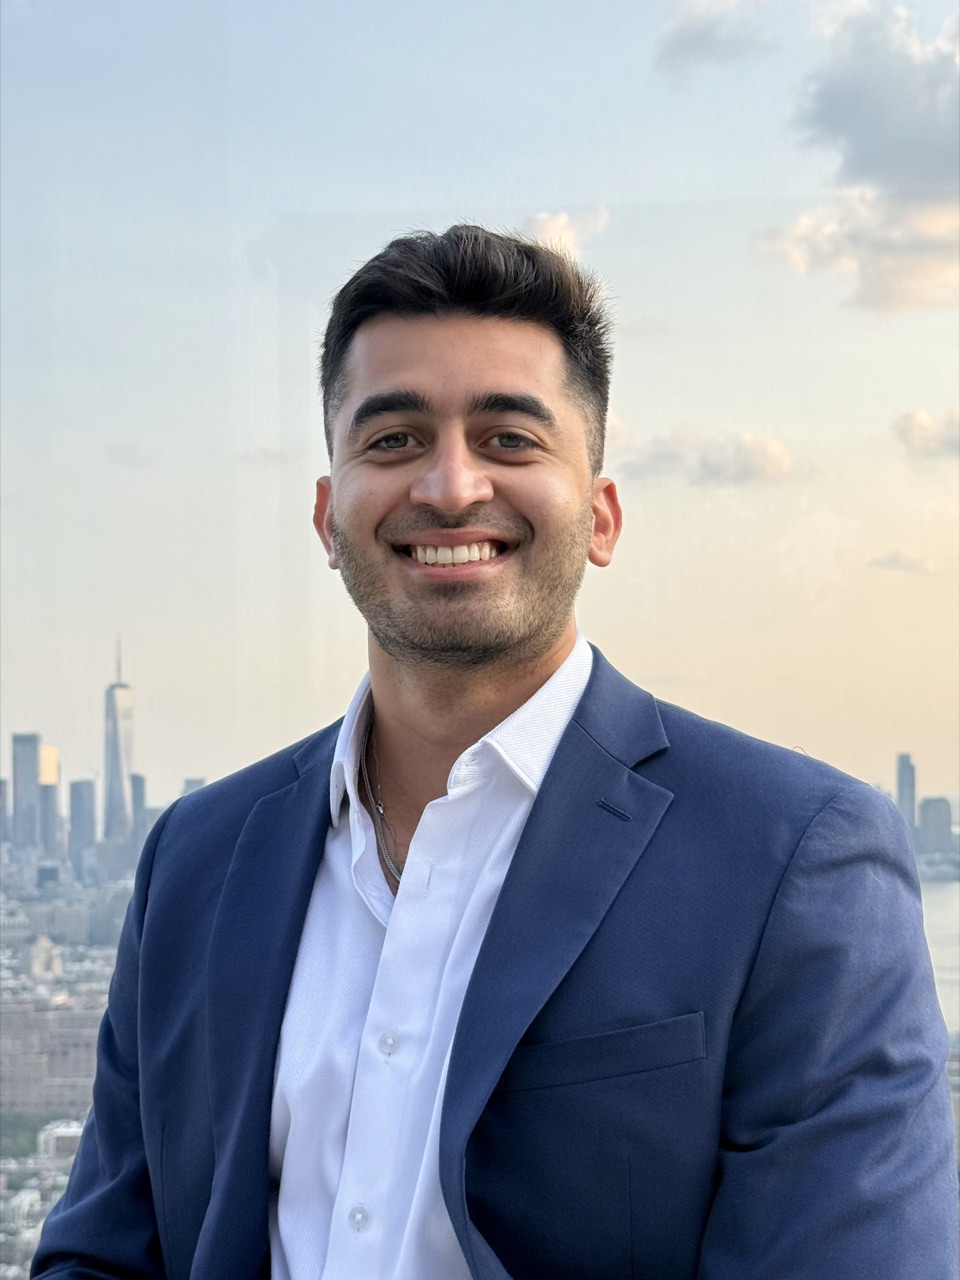
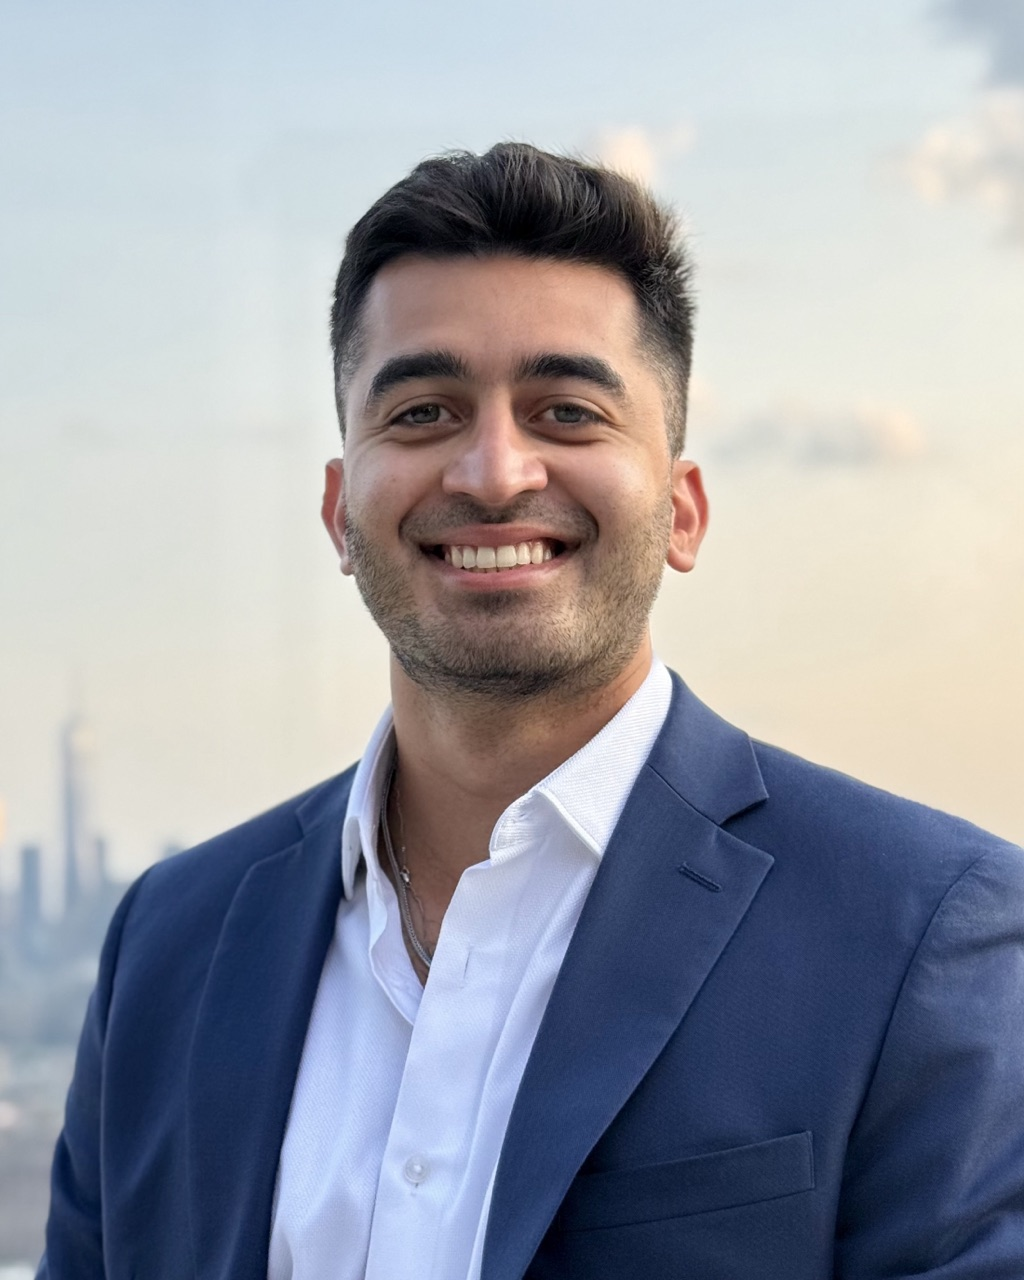
Use a tighter portrait-mode headshot for Kunaal

diff --git a/src/pages/index.html b/src/pages/index.html
@@ -176,7 +176,7 @@
             </div></div>
           </article>
           <article>
-            <img class="team-photo" src="./assets/team/kunaal-kumar.jpg" alt="Kunaal Kumar" width="960" height="1280" loading="lazy">
+            <img class="team-photo" src="./assets/team/kunaal-kumar.jpg" alt="Kunaal Kumar" width="1024" height="1280" loading="lazy">
             <h3>
               <button class="bio-toggle" type="button" aria-expanded="true" aria-controls="bio-kunaal" data-bio-toggle>
                 <span>
